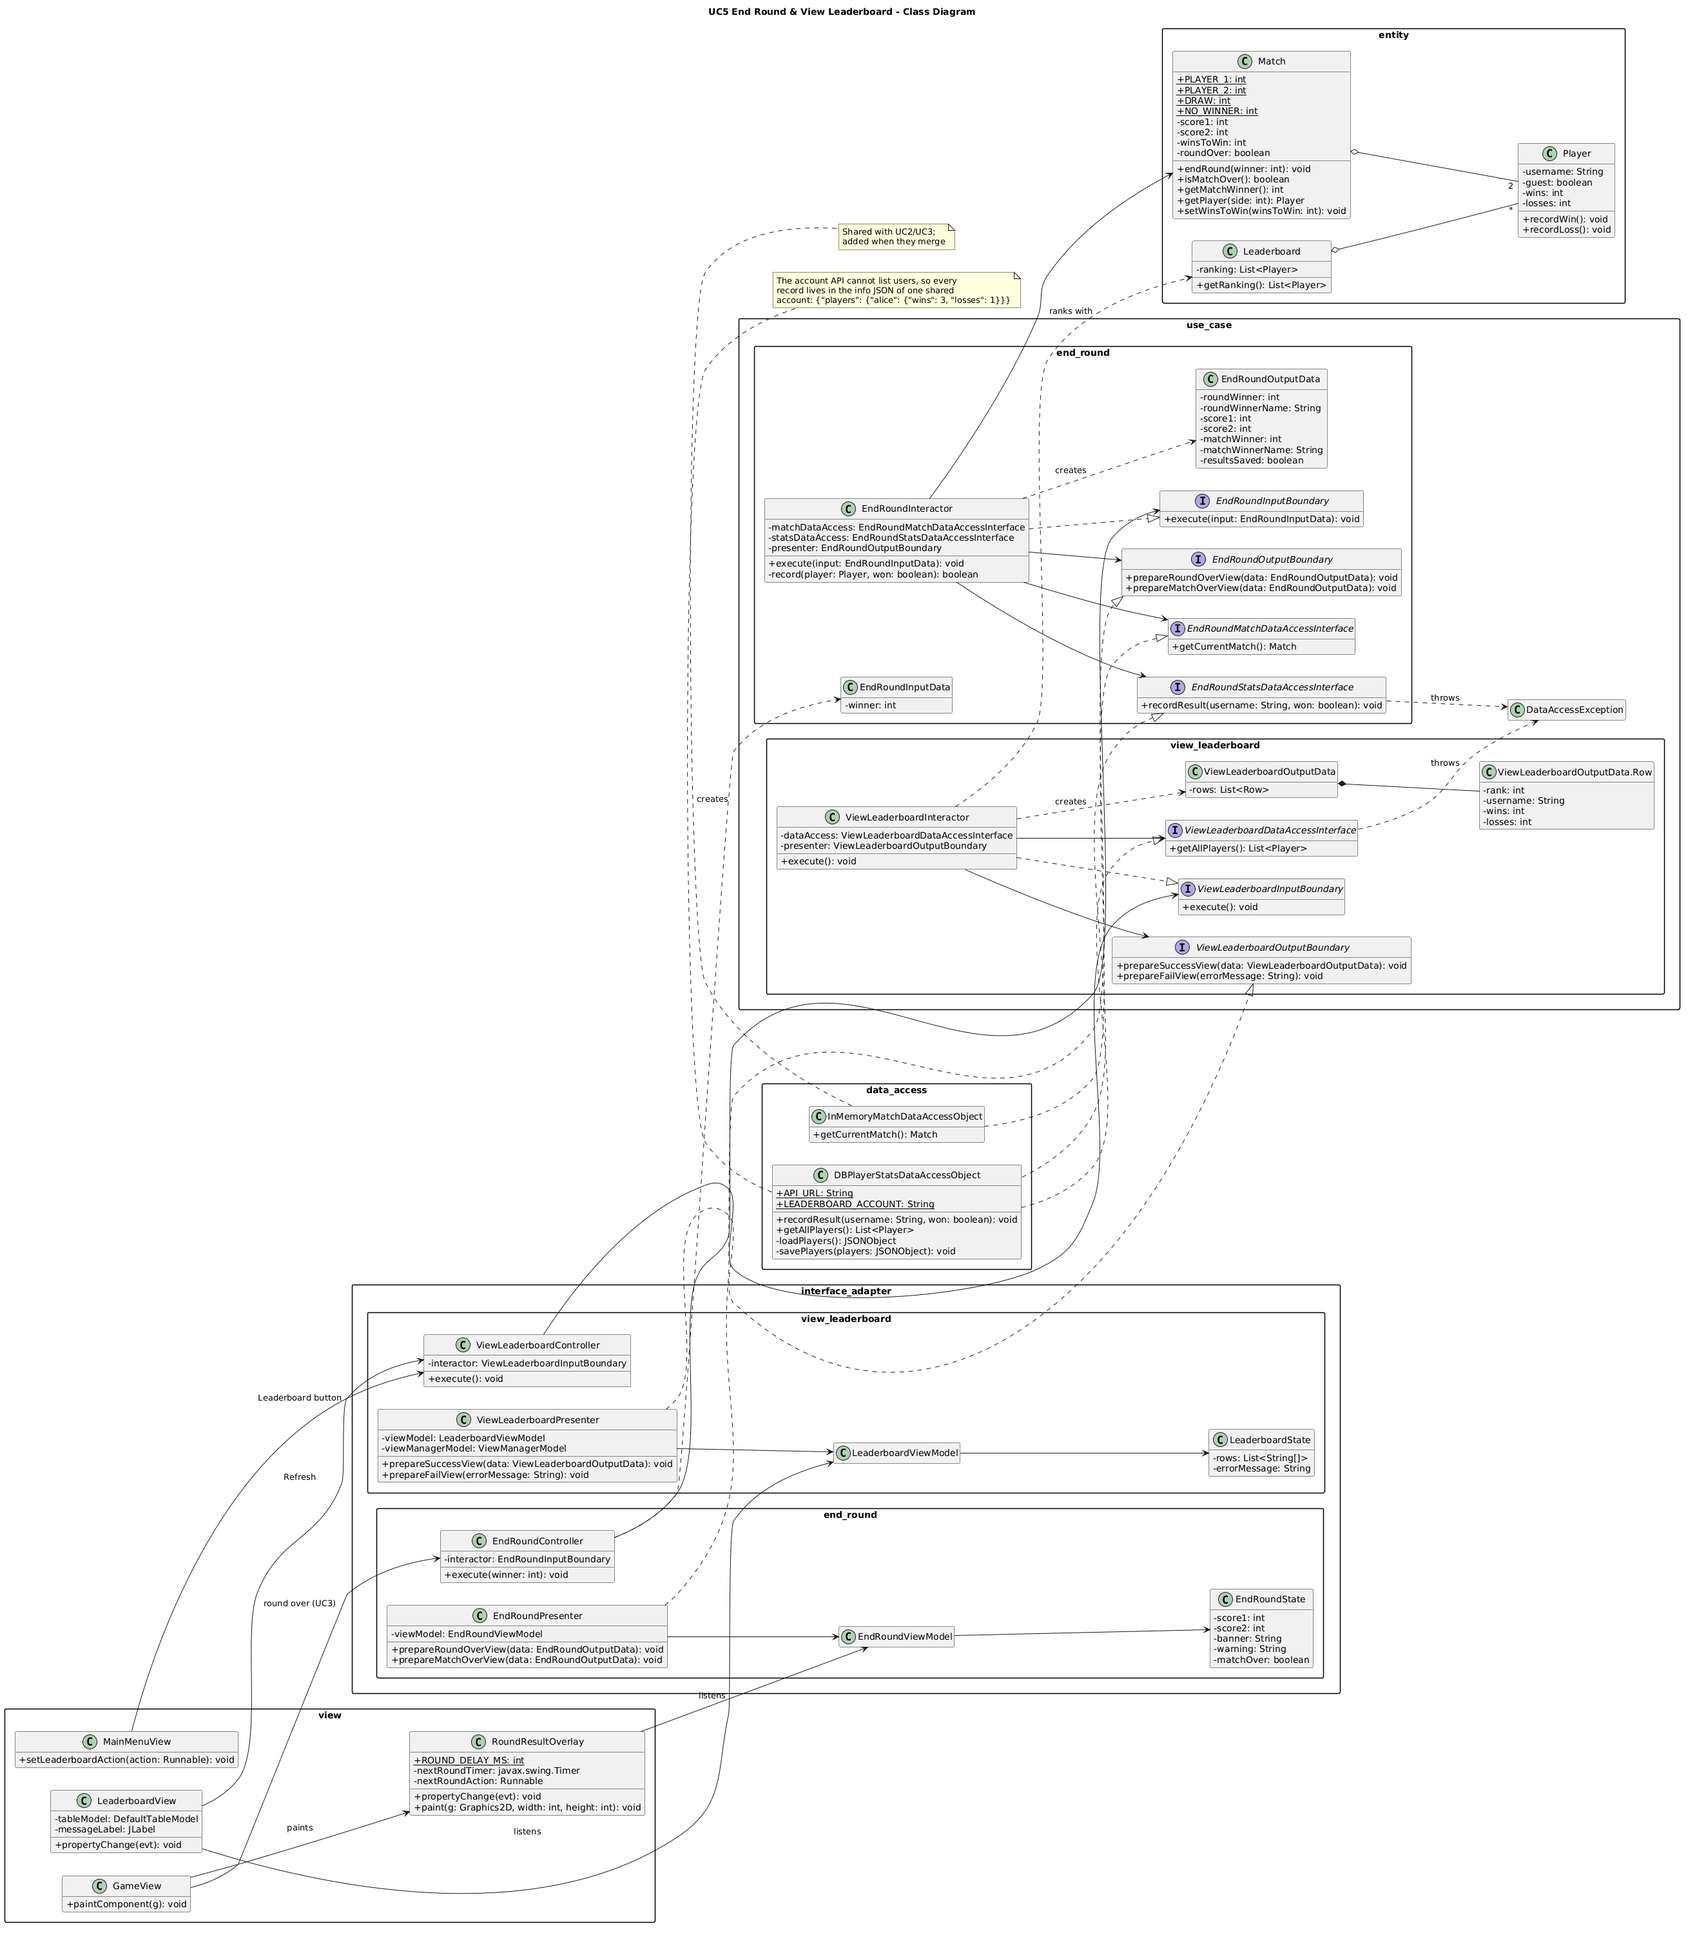
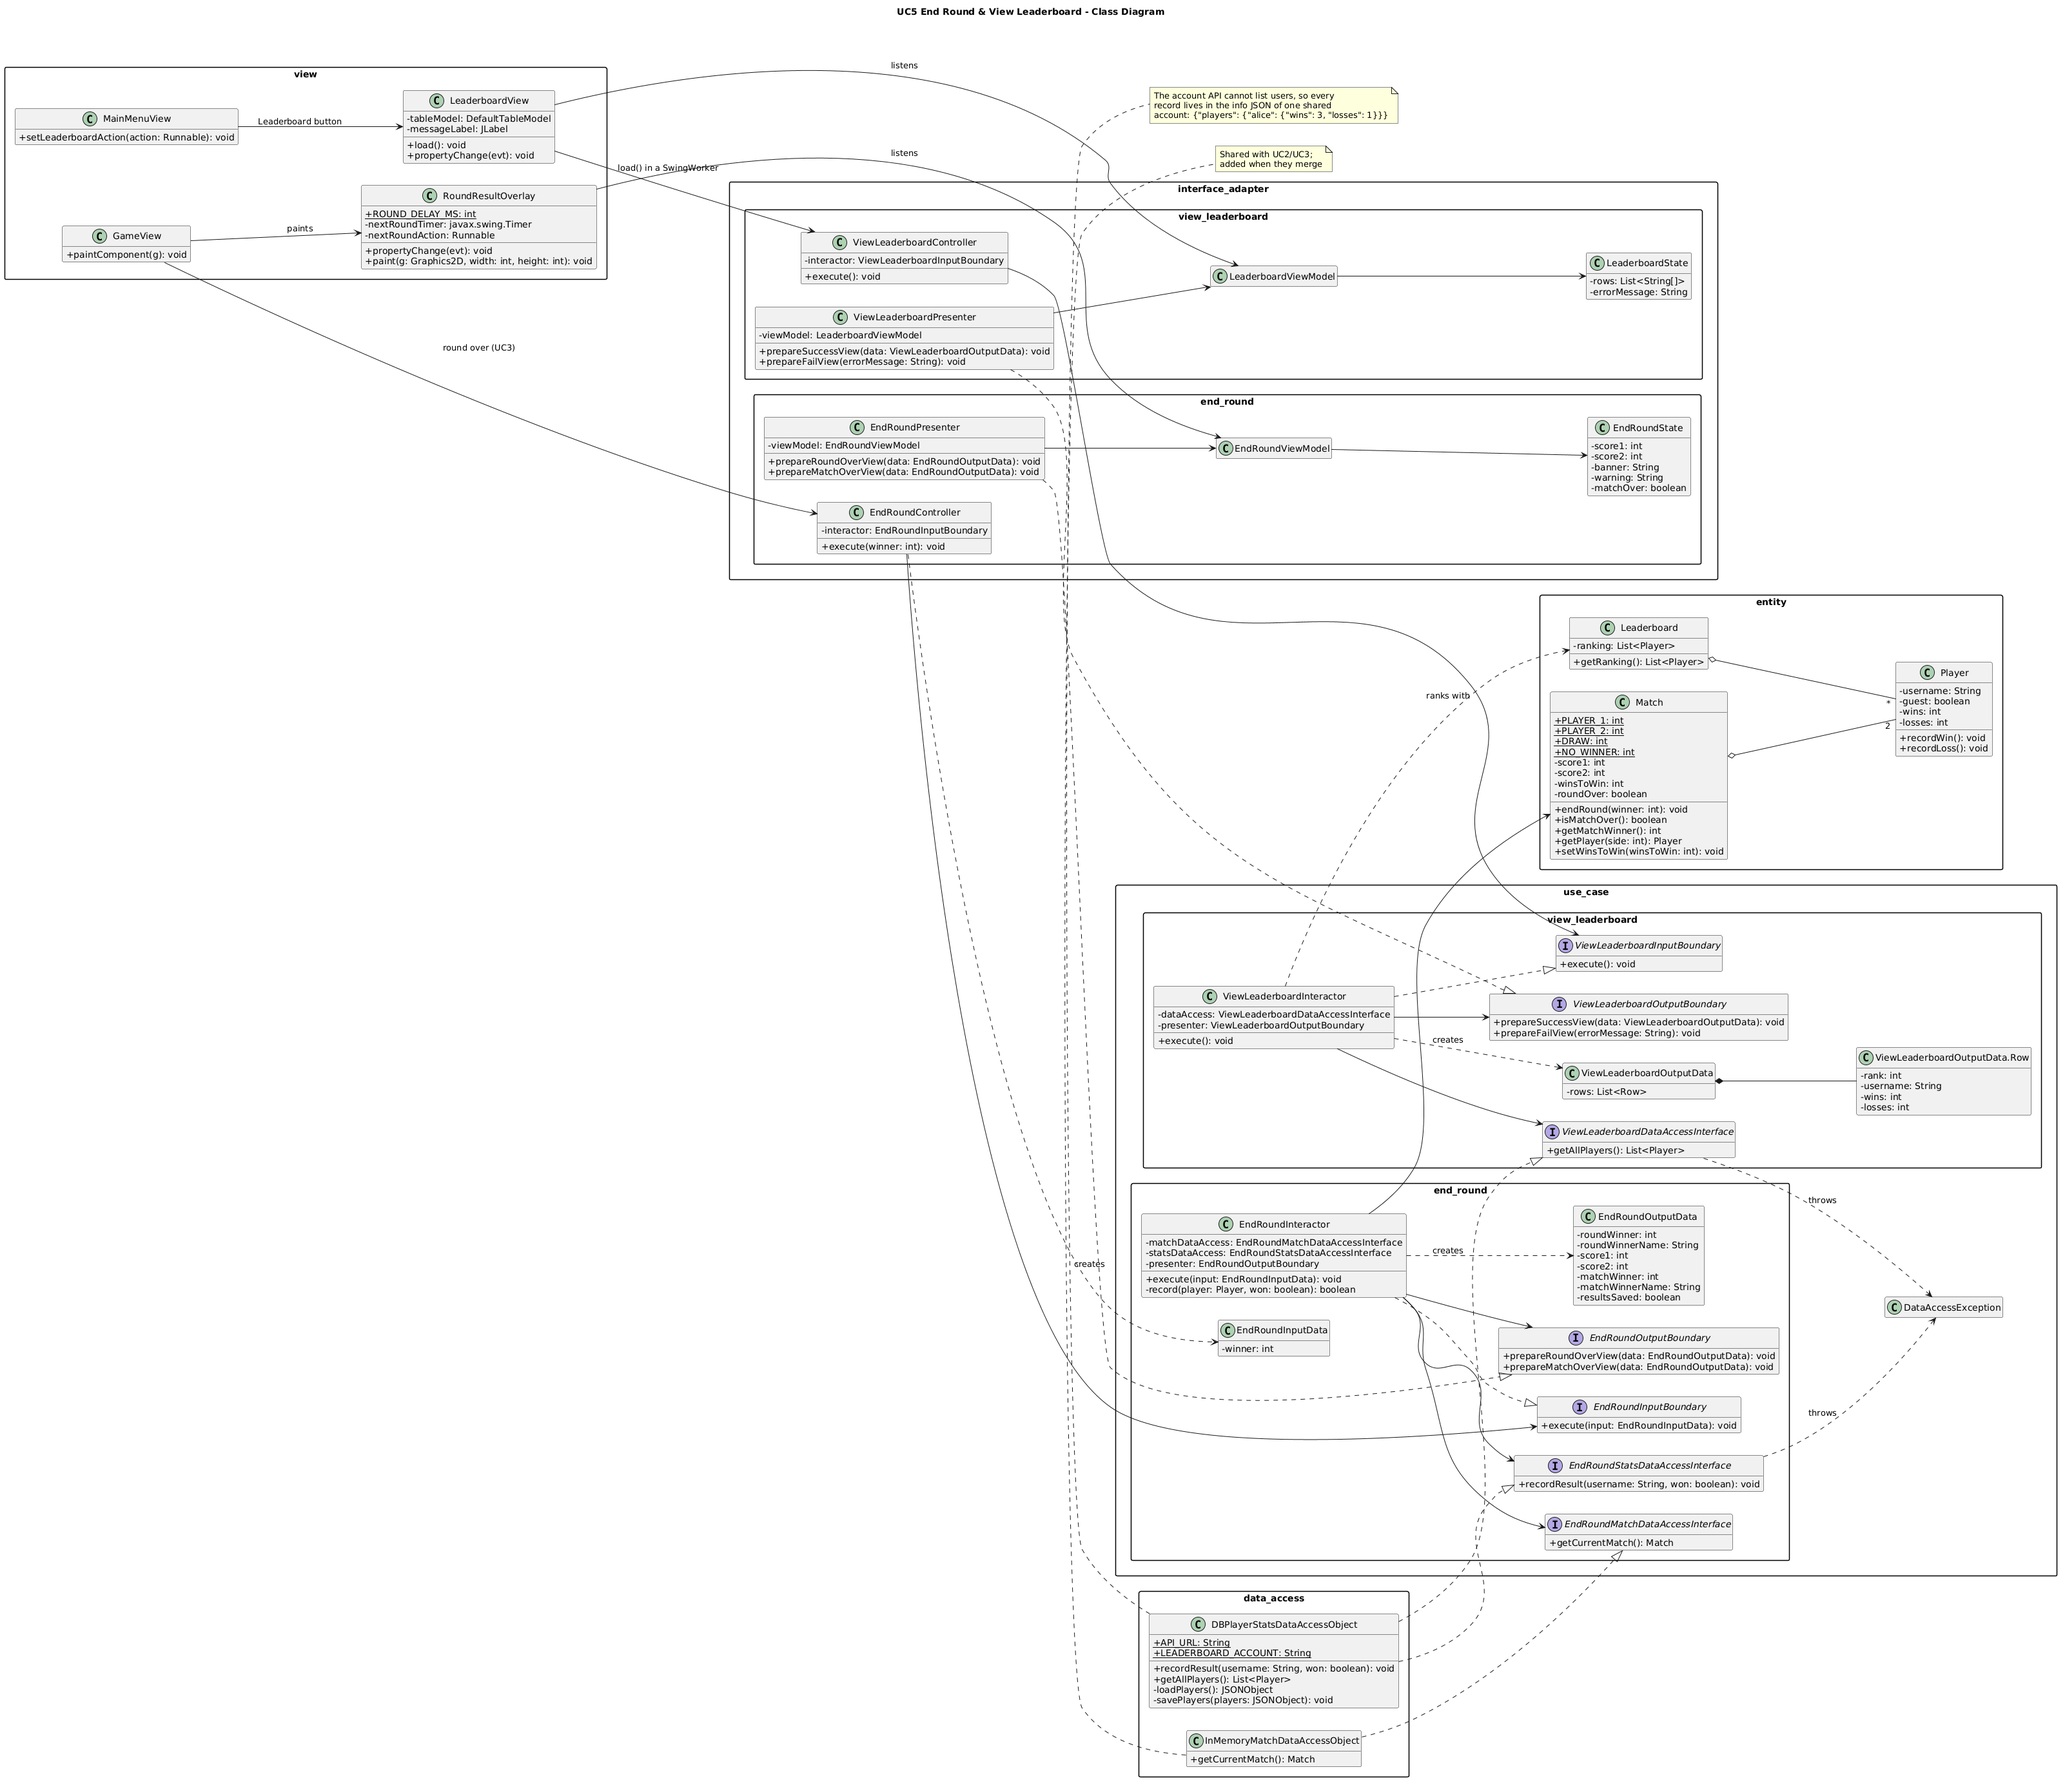
UC5: load leaderboard in a SwingWorker, record results per round
- LeaderboardView.load() calls the API on a background thread and shows "Loading..."
- Presenter no longer switches screens (the menu switches first, then loads)
- Grey info messages, red only for errors
- README: API base URL, results counted per round
- Design notes and class diagram updated

Claude-Session: https://claude.ai/code/session_01WuWFZhjUXmnoLPytWRaXSJ

diff --git a/src/main/java/view/LeaderboardView.java b/src/main/java/view/LeaderboardView.java
@@ -11,19 +11,25 @@ import javax.swing.JPanel;
 import javax.swing.JScrollPane;
 import javax.swing.JTable;
 import javax.swing.SwingConstants;
+import javax.swing.SwingUtilities;
+import javax.swing.SwingWorker;
 import javax.swing.table.DefaultTableModel;
 import java.awt.BorderLayout;
 import java.awt.Color;
 import java.awt.Font;
 import java.beans.PropertyChangeEvent;
 import java.beans.PropertyChangeListener;
+import java.util.concurrent.ExecutionException;
 
 /**
  * The leaderboard screen: every account ranked by wins.
+ * Loading calls the account API, so it runs on a background thread (SwingWorker) to keep the window responsive.
  */
 public class LeaderboardView extends JPanel implements PropertyChangeListener {
     public static final String VIEW_NAME = LeaderboardViewModel.VIEW_NAME;
     private static final String[] COLUMNS = {"Rank", "Player", "Wins", "Losses"};
+    private static final Color ERROR_COLOR = new Color(180, 30, 30);
+    private static final Color INFO_COLOR = Color.GRAY;
 
     private final DefaultTableModel tableModel = new DefaultTableModel(COLUMNS, 0) {
         @Override
@@ -53,7 +59,6 @@ public class LeaderboardView extends JPanel implements PropertyChangeListener {
         add(new JScrollPane(table), BorderLayout.CENTER);
 
         final JPanel bottom = new JPanel(new BorderLayout(0, 8));
-        messageLabel.setForeground(new Color(180, 30, 30));
         bottom.add(messageLabel, BorderLayout.NORTH);
         final JPanel buttons = new JPanel();
         buttons.add(refreshButton);
@@ -61,11 +66,7 @@ public class LeaderboardView extends JPanel implements PropertyChangeListener {
         bottom.add(buttons, BorderLayout.SOUTH);
         add(bottom, BorderLayout.SOUTH);
 
-        refreshButton.addActionListener(e -> {
-            if (controller != null) {
-                controller.execute();
-            }
-        });
+        refreshButton.addActionListener(e -> load());
         backButton.addActionListener(e -> backAction.run());
     }
 
@@ -77,21 +78,58 @@ public class LeaderboardView extends JPanel implements PropertyChangeListener {
         this.backAction = backAction;
     }
 
+    /** Loads the leaderboard in the background; the table updates when the presenter fires. */
+    public void load() {
+        if (controller == null) {
+            return;
+        }
+        refreshButton.setEnabled(false);
+        showMessage("Loading...", INFO_COLOR);
+        new SwingWorker<Void, Void>() {
+            @Override
+            protected Void doInBackground() {
+                controller.execute();
+                return null;
+            }
+
+            @Override
+            protected void done() {
+                refreshButton.setEnabled(true);
+                try {
+                    get();
+                }
+                catch (InterruptedException | ExecutionException ex) {
+                    showMessage("Could not load the leaderboard: " + ex.getCause(), ERROR_COLOR);
+                }
+            }
+        }.execute();
+    }
+
     @Override
     public void propertyChange(PropertyChangeEvent evt) {
         final LeaderboardState state = (LeaderboardState) evt.getNewValue();
+        // The presenter fires from the background thread; Swing must only be touched on the event thread.
+        SwingUtilities.invokeLater(() -> show(state));
+    }
+
+    private void show(LeaderboardState state) {
         tableModel.setRowCount(0);
         for (String[] row : state.getRows()) {
             tableModel.addRow(row);
         }
         if (state.getErrorMessage() != null) {
-            messageLabel.setText(state.getErrorMessage());
+            showMessage(state.getErrorMessage(), ERROR_COLOR);
         }
         else if (state.getRows().isEmpty()) {
-            messageLabel.setText("No results recorded yet.");
+            showMessage("No results recorded yet.", INFO_COLOR);
         }
         else {
-            messageLabel.setText(" ");
+            showMessage(" ", INFO_COLOR);
         }
+    }
+
+    private void showMessage(String text, Color color) {
+        messageLabel.setForeground(color);
+        messageLabel.setText(text);
     }
 }

diff --git a/src/test/java/interface_adapter/view_leaderboard/ViewLeaderboardPresenterTest.java b/src/test/java/interface_adapter/view_leaderboard/ViewLeaderboardPresenterTest.java
@@ -1,6 +1,5 @@
 package interface_adapter.view_leaderboard;
 
-import interface_adapter.ViewManagerModel;
 import org.junit.jupiter.api.Test;
 import use_case.view_leaderboard.ViewLeaderboardOutputData;
 
@@ -13,11 +12,12 @@ import static org.junit.jupiter.api.Assertions.assertNull;
 class ViewLeaderboardPresenterTest {
 
     @Test
-    void successFillsTableAndSwitchesScreen() {
+    void successFillsTable() {
         final LeaderboardViewModel viewModel = new LeaderboardViewModel();
-        final ViewManagerModel viewManagerModel = new ViewManagerModel();
+        final int[] fired = {0};
+        viewModel.addPropertyChangeListener(evt -> fired[0]++);
 
-        new ViewLeaderboardPresenter(viewModel, viewManagerModel).prepareSuccessView(
+        new ViewLeaderboardPresenter(viewModel).prepareSuccessView(
                 new ViewLeaderboardOutputData(Arrays.asList(
                         new ViewLeaderboardOutputData.Row(1, "alice", 6, 2),
                         new ViewLeaderboardOutputData.Row(2, "bob", 1, 4))));
@@ -25,17 +25,15 @@ class ViewLeaderboardPresenterTest {
         assertEquals(2, viewModel.getState().getRows().size());
         assertArrayEquals(new String[] {"1", "alice", "6", "2"}, viewModel.getState().getRows().get(0));
         assertNull(viewModel.getState().getErrorMessage());
-        assertEquals(LeaderboardViewModel.VIEW_NAME, viewManagerModel.getState());
+        assertEquals(1, fired[0]);
     }
 
     @Test
-    void failShowsErrorOnLeaderboardScreen() {
+    void failShowsError() {
         final LeaderboardViewModel viewModel = new LeaderboardViewModel();
-        final ViewManagerModel viewManagerModel = new ViewManagerModel();
 
-        new ViewLeaderboardPresenter(viewModel, viewManagerModel).prepareFailView("server down");
+        new ViewLeaderboardPresenter(viewModel).prepareFailView("server down");
 
         assertEquals("server down", viewModel.getState().getErrorMessage());
-        assertEquals(LeaderboardViewModel.VIEW_NAME, viewManagerModel.getState());
     }
 }

diff --git a/src/main/java/interface_adapter/view_leaderboard/ViewLeaderboardPresenter.java b/src/main/java/interface_adapter/view_leaderboard/ViewLeaderboardPresenter.java
@@ -1,6 +1,5 @@
 package interface_adapter.view_leaderboard;
 
-import interface_adapter.ViewManagerModel;
 import use_case.view_leaderboard.ViewLeaderboardOutputBoundary;
 import use_case.view_leaderboard.ViewLeaderboardOutputData;
 
@@ -8,15 +7,13 @@ import java.util.ArrayList;
 import java.util.List;
 
 /**
- * Fills the leaderboard screen and switches to it.
+ * Fills the leaderboard screen. (The screen is already showing "Loading..." while the API is called.)
  */
 public class ViewLeaderboardPresenter implements ViewLeaderboardOutputBoundary {
     private final LeaderboardViewModel viewModel;
-    private final ViewManagerModel viewManagerModel;
 
-    public ViewLeaderboardPresenter(LeaderboardViewModel viewModel, ViewManagerModel viewManagerModel) {
+    public ViewLeaderboardPresenter(LeaderboardViewModel viewModel) {
         this.viewModel = viewModel;
-        this.viewManagerModel = viewManagerModel;
     }
 
     @Override
@@ -46,7 +43,5 @@ public class ViewLeaderboardPresenter implements ViewLeaderboardOutputBoundary {
     private void show(LeaderboardState state) {
         viewModel.setState(state);
         viewModel.firePropertyChanged();
-        viewManagerModel.setState(viewModel.getViewName());
-        viewManagerModel.firePropertyChanged();
     }
 }

diff --git a/src/main/java/app/AppBuilder.java b/src/main/java/app/AppBuilder.java
@@ -56,13 +56,15 @@ public class AppBuilder {
 
     /** View Leaderboard (UC5): main menu button, Refresh and Back on the leaderboard screen. */
     public AppBuilder addViewLeaderboardUseCase() {
-        final ViewLeaderboardPresenter presenter =
-                new ViewLeaderboardPresenter(leaderboardViewModel, viewManagerModel);
+        final ViewLeaderboardPresenter presenter = new ViewLeaderboardPresenter(leaderboardViewModel);
         final ViewLeaderboardController controller = new ViewLeaderboardController(
                 new ViewLeaderboardInteractor(playerStatsDataAccessObject, presenter));
         leaderboardView.setController(controller);
         leaderboardView.setBackAction(() -> switchTo(MainMenuView.VIEW_NAME));
-        mainMenuView.setLeaderboardAction(controller::execute);
+        mainMenuView.setLeaderboardAction(() -> {
+            switchTo(LeaderboardView.VIEW_NAME);
+            leaderboardView.load();
+        });
         return this;
     }
 

diff --git a/docs/design/uc5-end-round-leaderboard.md b/docs/design/uc5-end-round-leaderboard.md
@@ -27,11 +27,12 @@ Out of scope: deciding who survived (UC3), creating the match / next round and `
 
 **View Leaderboard**
 
-1. `MainMenuView` → `ViewLeaderboardController.execute()`.
+1. `MainMenuView` switches to `LeaderboardView`, which shows "Loading..." and calls
+   `ViewLeaderboardController.execute()` inside a `SwingWorker` (the API call must not freeze the window).
 2. `ViewLeaderboardInteractor` calls `dataAccess.getAllPlayers()`, ranks them with the `Leaderboard` entity,
    and builds `ViewLeaderboardOutputData` rows (rank, username, wins, losses).
-3. `ViewLeaderboardPresenter` fills `LeaderboardState` and switches the screen to `LeaderboardView`;
-   on `DataAccessException` it shows the error on the same screen instead.
+3. `ViewLeaderboardPresenter` fills `LeaderboardState`; on `DataAccessException` it sets an error message instead.
+   `LeaderboardView` hands the update to the Swing event thread (`invokeLater`).
 
 ## Key decisions
 
@@ -43,6 +44,8 @@ Out of scope: deciding who survived (UC3), creating the match / next round and `
 | **Ranking rule lives in the `Leaderboard` entity**: wins ↓, then losses ↑, then username | One place to change the rule. |
 | **All records are stored in one shared API account** (`ricochet-tanks-leaderboard`), info = `{"players": {"alice": {"wins": 3, "losses": 1}}}` | The course API has no "list all users" call, so per-player info can't be ranked. One account can be read with one GET. The account is created on first use. |
 | **`recordResult` reads, increments and writes** instead of sending the local `Player` totals | The saved record stays right even if the local `Player` was created with old numbers. |
+| **Results count per round** (agreed with the team): each round won = 1 win, lost = 1 loss | Matches the round-by-round flow; a BO3 won 2:1 gives the winner 2 wins and 1 loss. |
+| **Leaderboard loads in a `SwingWorker`** | API calls take up to a second; on the Swing thread they would freeze the window. End Round will do the same when it is wired in. |
 | **API failure never blocks the game** | Alternative flow: scores still update on screen; the banner shows a "not saved" warning. |
 | **Guests are skipped** | Alternative flow: guest results are not recorded. |
 | **`DataAccessException` is checked and lives in `use_case`** | Interactors must handle a failed save/load; any use case can reuse it. |

diff --git a/README.md b/README.md
@@ -172,13 +172,16 @@ See [`docs/diagrams/entities.puml`](docs/diagrams/entities.puml) for the UML cla
 
 | API | Documentation | Status |
 |---|---|---|
-| CSC207 course user/password + info API (used by the `DBUserDataAccessObject` example) | [Postman docs](https://www.postman.com/cloudy-astronaut-813156/csc207-apis-2026/collection/puzltp3/5-password-protected-user) | ✅ Called (UC5: `GET /user`, `POST /user`, `PUT /modifyUserInfo`) |
+| CSC207 course user/password + info API (`https://csc207-20269-vm.teach.cs.toronto.edu`, used by the `DBUserDataAccessObject` example) | [Postman docs](https://www.postman.com/cloudy-astronaut-813156/csc207-apis-2026/collection/puzltp3/5-password-protected-user) | ✅ Called (UC5: `GET /user`, `POST /user`, `PUT /modifyUserInfo`) |
 
 **How we use it:**
 - **Sign up / log in** (UC1): create a user with a username and password, and check credentials when logging in.
 - **Save results** (UC5): the API cannot list all users, so every player's `wins` and `losses` are stored in the info
   JSON of one shared account, `ricochet-tanks-leaderboard`: `{"players": {"alice": {"wins": 3, "losses": 1}}}`.
 - **Leaderboard** (UC5): read that one account's info and rank the players by wins.
+- Results are counted **per round**: every round won adds 1 win, every round lost adds 1 loss (a BO3 won 2:1 gives the
+  winner 2 wins, 1 loss). Draws and guests are not recorded.
+- API calls for the leaderboard run on a background thread (`SwingWorker`) so the window doesn't freeze.
 
 This API satisfies both the **external API** and the **data persistence** requirements.
 
